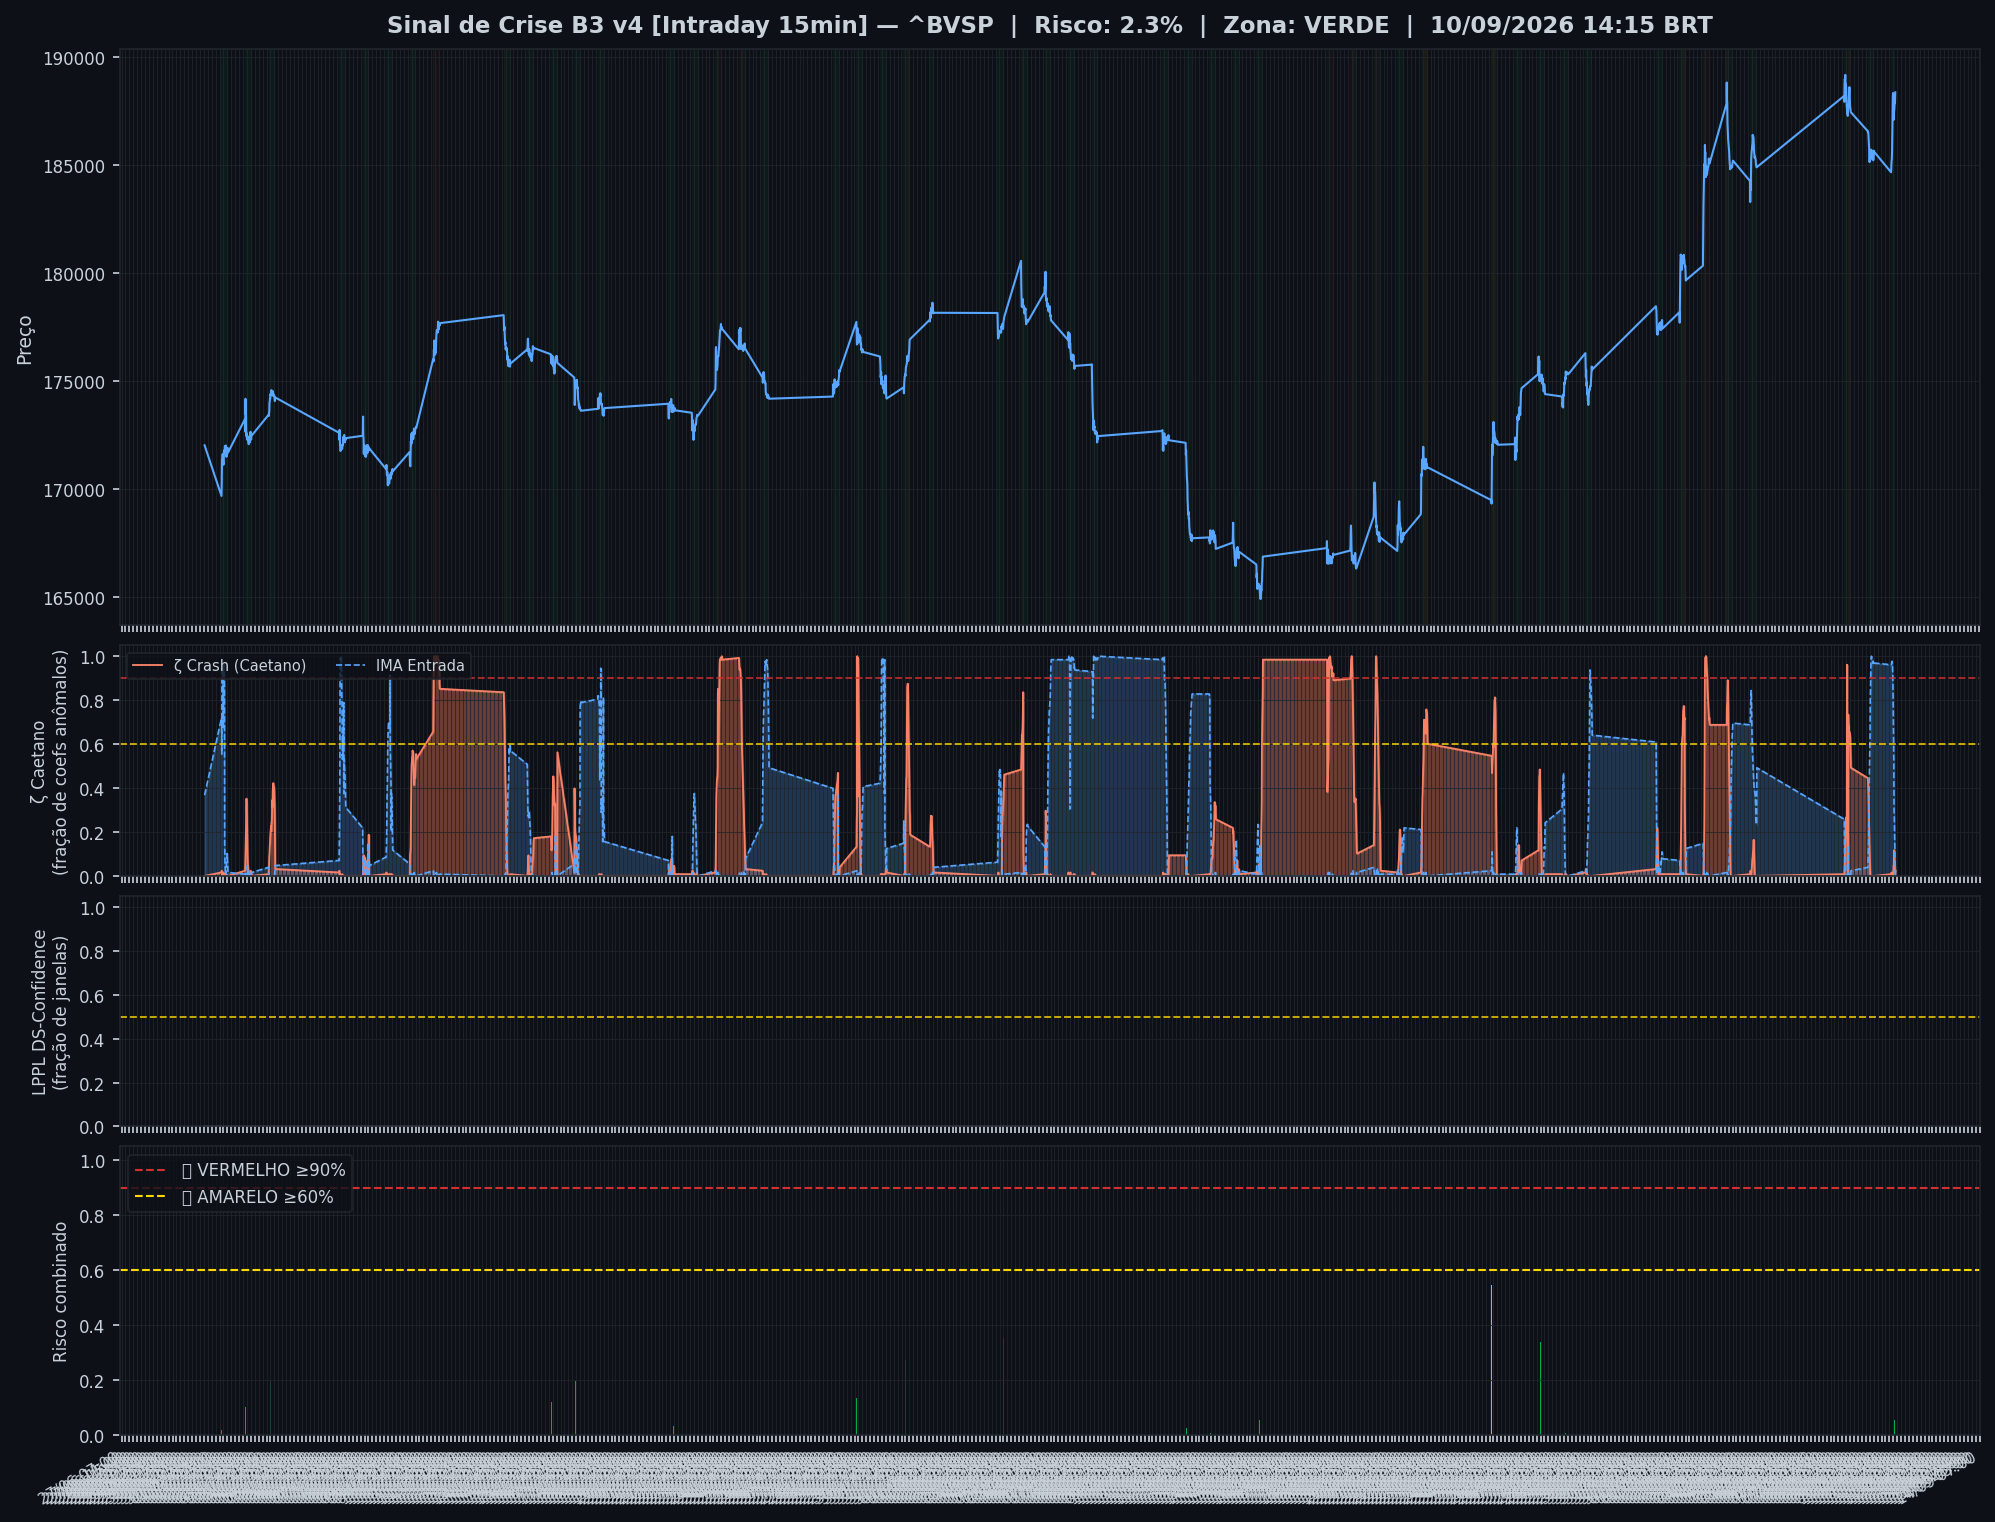
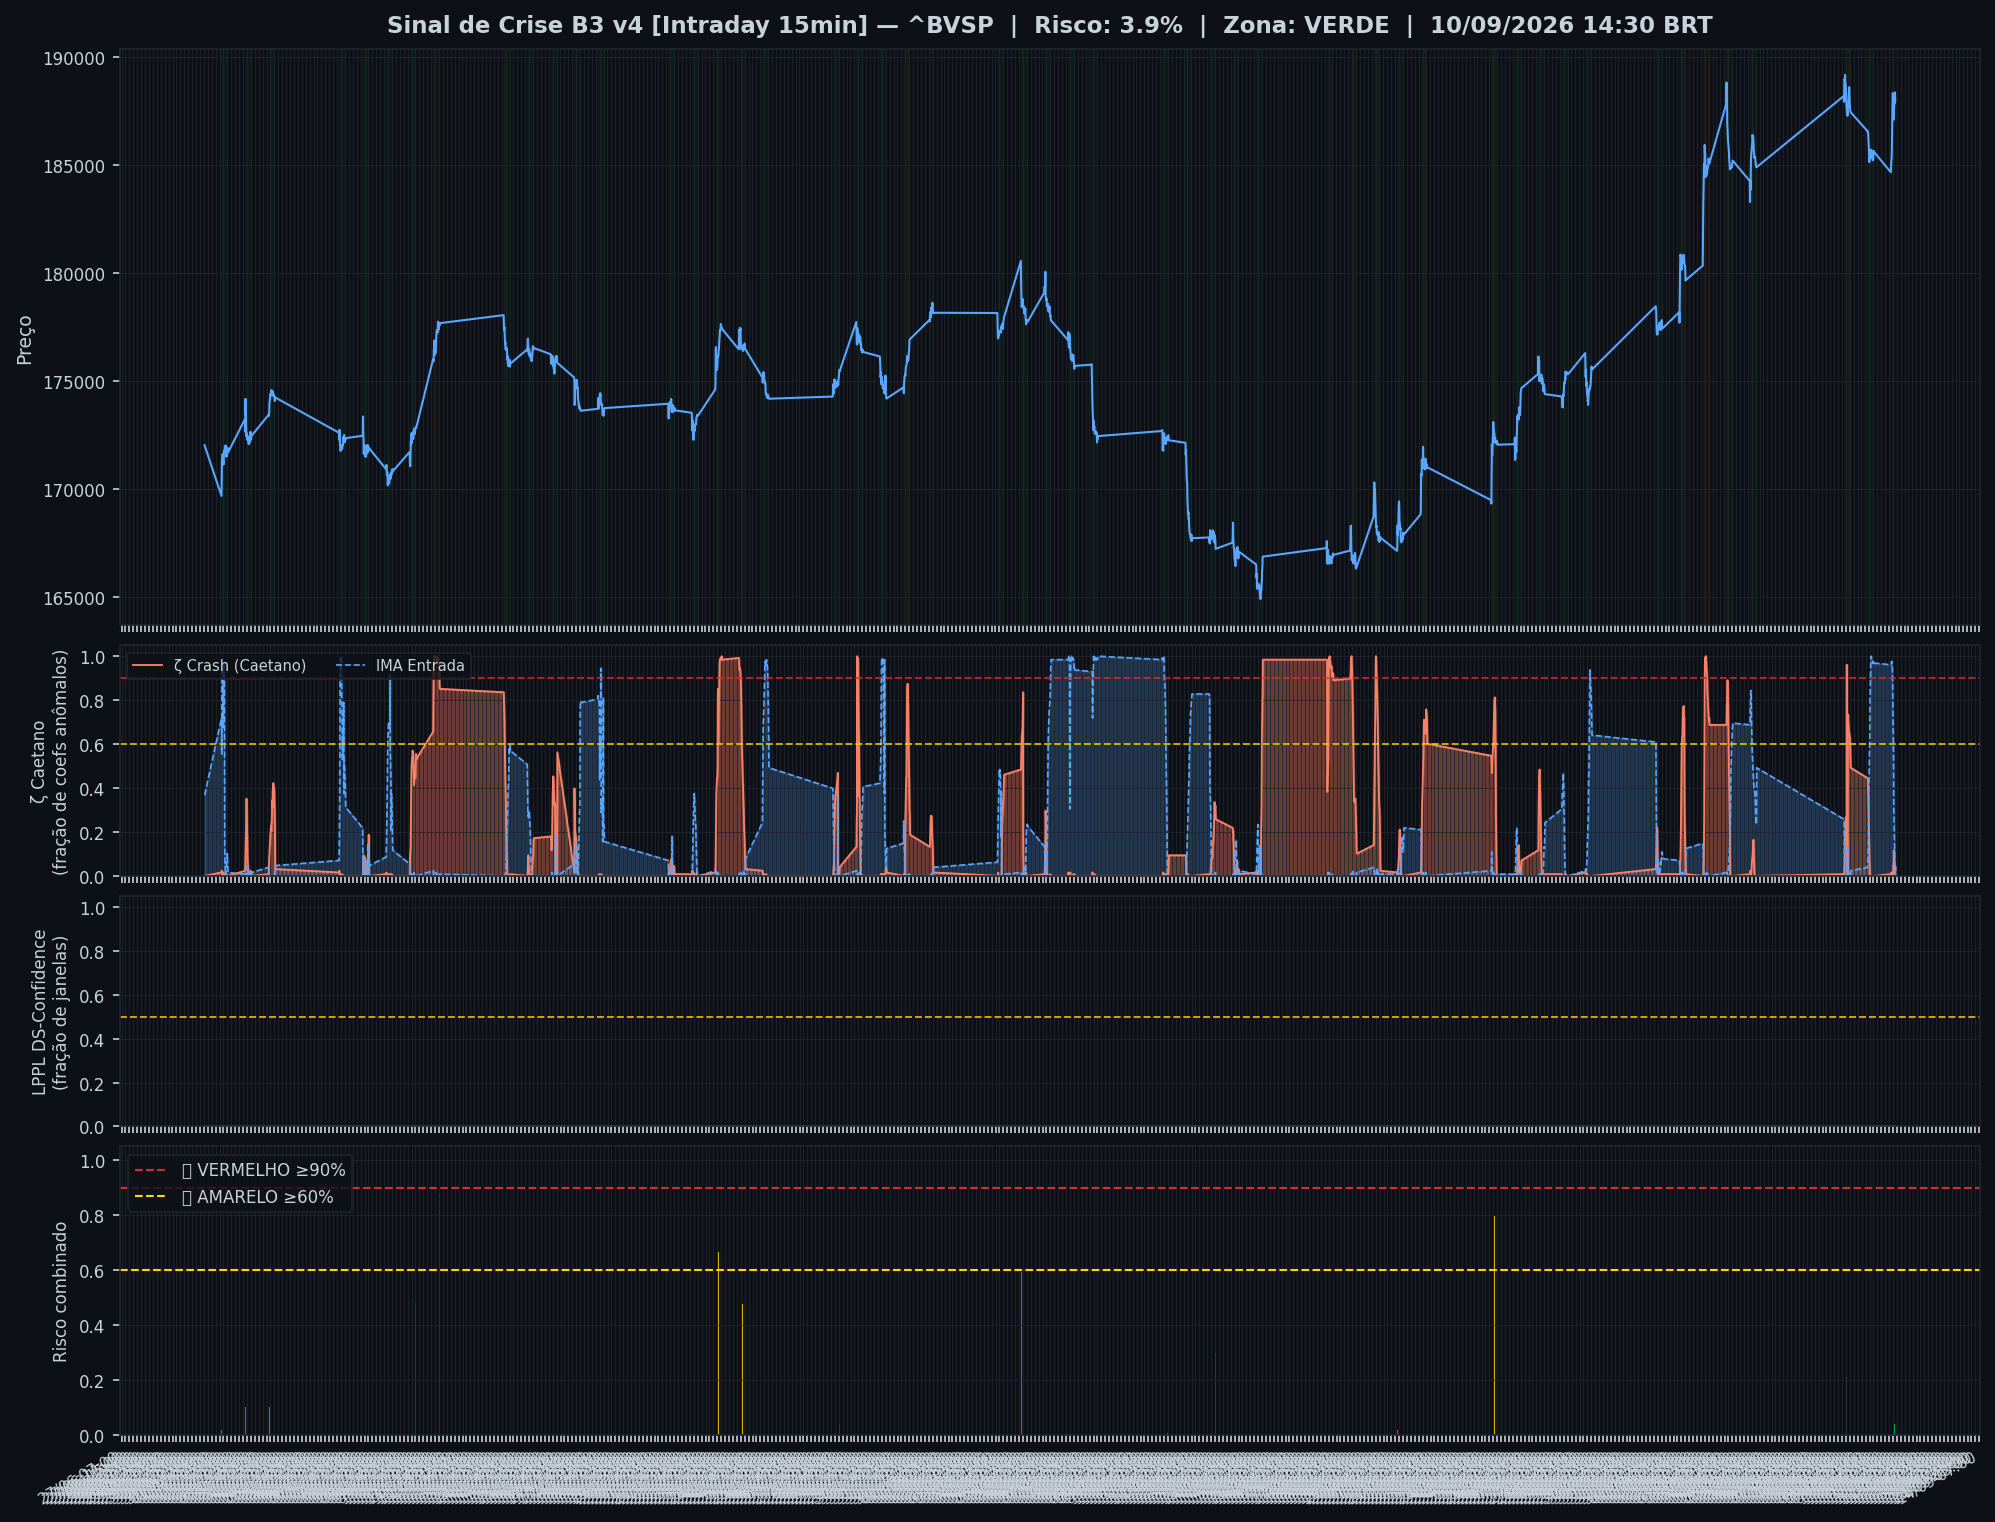
🤖 Auto: Sinal 10/09/2026 15:15

diff --git a/content/intraday/2026-09-10.md b/content/intraday/2026-09-10.md
@@ -1,20 +1,20 @@
 ---
-title: "🟢 Intraday 10/09/2026 14:15 BRT — VERDE"
+title: "🟢 Intraday 10/09/2026 14:30 BRT — VERDE"
 date: 2026-09-10
 tags: [intraday]
 ---
 
-> [!success] 🟢 **VERDE** — Risco 2% · ▲ +1 p.p. vs leitura anterior
-> `░░░░░░░░░░░░░░░░░░░░`
+> [!success] 🟢 **VERDE** — Risco 4% · ▲ +2 p.p. vs leitura anterior
+> `█░░░░░░░░░░░░░░░░░░░`
 > Mercado sem sinais relevantes de estresse.
 
 
 | Indicador | Valor |
 |---|---|
-| 🔴 ζ Crash — severidade da queda em curso | **2%** |
+| 🔴 ζ Crash — severidade da queda em curso | **4%** |
 | 🔵 ζ Entrada — estrutura de fundo | 0% |
 | 🫧 LPPL DS-Confidence | 0% |
-| 📊 Ibovespa | 188.362 pts |
+| 📊 Ibovespa | 187.975 pts |
 
 ![Gráfico do sinal](../graficos/sinal_intraday.png)
 
@@ -22,6 +22,7 @@ tags: [intraday]
 
 | Data | Zona | Risco | IMA Crash | Entrada | LPPL |
 |---|---|---|---|---|---|
+| 2026-09-10 14:30 | 🟢 VERDE | **4%** | 4% | 0% | 0% |
 | 2026-09-10 14:15 | 🟢 VERDE | **2%** | 2% | 0% | 0% |
 | 2026-09-10 14:00 | 🟢 VERDE | **2%** | 2% | 1% | 0% |
 | 2026-09-10 13:45 | 🟢 VERDE | **2%** | 2% | 5% | 0% |
@@ -51,7 +52,6 @@ tags: [intraday]
 | 2026-09-09 14:45 | 🟢 VERDE | **0%** | 0% | 98% | 0% |
 | 2026-09-09 14:30 | 🟢 VERDE | **0%** | 0% | 98% | 0% |
 | 2026-09-09 14:15 | 🟢 VERDE | **0%** | 0% | 98% | 0% |
-| 2026-09-09 14:00 | 🟢 VERDE | **0%** | 0% | 99% | 0% |
 
 ## Monitor Multi-Ativo
 
@@ -59,35 +59,35 @@ tags: [intraday]
 
 | Zona | Ativo | Setor | IMA Crash | IMA Entrada |
 |---|---|---|---|---|
-| 🟢 | **USD/BRL** | Câmbio | 4.7% | 1.6% |
-| 🟢 | **VALE** | Mineração | 1.6% | 1.6% |
-| 🟢 | **ITAUUNIBANCO** | Financeiro | 1.6% | 1.6% |
+| 🟢 | **USD/BRL** | Câmbio | 8.6% | 0.8% |
+| 🟢 | **VALE** | Mineração | 4.7% | 1.6% |
+| 🟢 | **ITAUUNIBANCO** | Financeiro | 4.7% | 1.6% |
+| 🟢 | **PETROBRAS** | Petróleo | 4.7% | 1.6% |
+| 🟢 | **AXIA ENERGIA** | Energia | 4.7% | 1.6% |
+| 🟢 | **SABESP** | Saneamento | 4.7% | 1.6% |
+| 🟢 | **BRADESCO** | Financeiro | 4.7% | 1.6% |
+| 🟢 | **B3** | Financeiro | 4.7% | 1.6% |
+| 🟢 | **ITAUSA** | Financeiro | 4.7% | 1.6% |
+| 🟢 | **WEG** | Industrial | 4.7% | 1.6% |
+| 🟢 | **BTGP BANCO** | Financeiro | 4.7% | 1.6% |
+| 🟢 | **EMBRAER** | Outros | 4.7% | 1.6% |
+| 🟢 | **BRASIL** | Financeiro | 4.7% | 1.6% |
+| 🟢 | **AMBEV S/A** | Consumo | 4.7% | 1.6% |
+| 🟢 | **ENEVA** | Energia | 4.7% | 1.6% |
+| 🟢 | **EQUATORIAL** | Energia | 4.7% | 1.6% |
+| 🟢 | **COPEL** | Energia | 4.7% | 1.6% |
+| 🟢 | **PRIO** | Petróleo | 4.7% | 1.6% |
+| 🟢 | **VIBRA** | Energia | 4.7% | 1.6% |
+| 🟢 | **ULTRAPAR** | Outros | 4.7% | 1.6% |
+| 🟢 | **REDE D OR** | Saúde | 4.7% | 1.6% |
+| 🟢 | **LOCALIZA** | Aluguel | 4.7% | 1.6% |
+| 🟢 | **SUZANO S.A.** | Papel/Celulose | 4.7% | 1.6% |
 | 🟢 | **PETROBRAS** | Petróleo | 1.6% | 1.6% |
-| 🟢 | **PETROBRAS** | Petróleo | 1.6% | 1.6% |
-| 🟢 | **AXIA ENERGIA** | Energia | 1.6% | 1.6% |
-| 🟢 | **SABESP** | Saneamento | 1.6% | 1.6% |
-| 🟢 | **BRADESCO** | Financeiro | 1.6% | 1.6% |
-| 🟢 | **B3** | Financeiro | 1.6% | 1.6% |
-| 🟢 | **ITAUSA** | Financeiro | 1.6% | 1.6% |
-| 🟢 | **WEG** | Industrial | 1.6% | 1.6% |
-| 🟢 | **BTGP BANCO** | Financeiro | 1.6% | 1.6% |
-| 🟢 | **EMBRAER** | Outros | 1.6% | 1.6% |
-| 🟢 | **BRASIL** | Financeiro | 1.6% | 1.6% |
-| 🟢 | **AMBEV S/A** | Consumo | 1.6% | 1.6% |
-| 🟢 | **ENEVA** | Energia | 1.6% | 1.6% |
-| 🟢 | **EQUATORIAL** | Energia | 1.6% | 1.6% |
-| 🟢 | **COPEL** | Energia | 1.6% | 1.6% |
-| 🟢 | **PRIO** | Petróleo | 1.6% | 1.6% |
-| 🟢 | **VIBRA** | Energia | 1.6% | 1.6% |
-| 🟢 | **ULTRAPAR** | Outros | 1.6% | 1.6% |
-| 🟢 | **REDE D OR** | Saúde | 1.6% | 1.6% |
-| 🟢 | **LOCALIZA** | Aluguel | 1.6% | 1.6% |
-| 🟢 | **GERDAU** | Siderurgia | 1.6% | 0.8% |
-| 🟢 | **SUZANO S.A.** | Papel/Celulose | 1.6% | 1.6% |
+| 🟢 | **GERDAU** | Siderurgia | 1.6% | 1.6% |
 
 ![Monitor multi-ativo](../graficos/multi_intraday.png)
 
-*Página atualizada em 10/09/2026 15:00 BRT (leitura da barra de 2026-09-10 14:15 BRT).*
+*Página atualizada em 10/09/2026 15:15 BRT (leitura da barra de 2026-09-10 14:30 BRT).*
 
 > [!info]- Como interpretar (clique para expandir)
 > - **ζ Crash**: fração dos coeficientes wavelet acima do corte (Caetano & Yoneyama 2009). Escala absoluta: ζ=0,90 = 90% dos coeficientes anômalos — historicamente, quedas com ζ≥0,90 foram mais fundas e mais longas. **Mede a severidade do movimento em curso, não prevê o início da queda.**

diff --git a/content/index.md b/content/index.md
@@ -8,19 +8,19 @@ tags: [home]
 
 Monitoramento diário e intraday do Ibovespa — **IMA Wavelet** (Prof. Marco Antonio Leonel Caetano, ITA/INSPER) + **LPPL DS-Confidence** (Prof. Didier Sornette, ETH-Zurich).
 
-*Última atualização: 10/09/2026 15:00 BRT · ^BVSP · Intraday 15min · v4*
+*Última atualização: 10/09/2026 15:15 BRT · ^BVSP · Intraday 15min · v4*
 
-> [!success] 🟢 **VERDE** — Risco 2% · ▲ +1 p.p. vs leitura anterior
-> `░░░░░░░░░░░░░░░░░░░░`
+> [!success] 🟢 **VERDE** — Risco 4% · ▲ +2 p.p. vs leitura anterior
+> `█░░░░░░░░░░░░░░░░░░░`
 > Mercado sem sinais relevantes de estresse.
 
 
 | Indicador | Valor |
 |---|---|
-| 🔴 ζ Crash — severidade da queda em curso | **2%** |
+| 🔴 ζ Crash — severidade da queda em curso | **4%** |
 | 🔵 ζ Entrada — estrutura de fundo | 0% |
 | 🫧 LPPL DS-Confidence | 0% |
-| 📊 Ibovespa | 188.362 pts |
+| 📊 Ibovespa | 187.975 pts |
 
 **Multi-ativo:** 0% em tensão (0🔴 0🟡 de 25 ativos)
 
@@ -32,7 +32,7 @@ Monitoramento diário e intraday do Ibovespa — **IMA Wavelet** (Prof. Marco An
 
 | Data | Zona | Risco | IMA | LPPL |
 |---|---|---|---|---|
-| [10 Sep 2026](diario/2026-09-10) | 🟢 VERDE | **2%** | 2% | 0% |
+| [10 Sep 2026](diario/2026-09-10) | 🟢 VERDE | **4%** | 4% | 0% |
 | [09 Sep 2026](diario/2026-09-09) | 🟢 VERDE | **0%** | 0% | 0% |
 
 ## Navegação

diff --git a/content/historico.md b/content/historico.md
@@ -7,6 +7,7 @@ tags: [historico]
 
 | Data | Modo | Zona | Risco | IMA | LPPL |
 |---|---|---|---|---|---|
+| 2026-09-10 14:30 | intraday | 🟢 VERDE | 4% | 4% | 0% |
 | 2026-09-10 14:15 | intraday | 🟢 VERDE | 2% | 2% | 0% |
 | 2026-09-10 14:00 | intraday | 🟢 VERDE | 2% | 2% | 0% |
 | 2026-09-10 13:45 | intraday | 🟢 VERDE | 2% | 2% | 0% |
